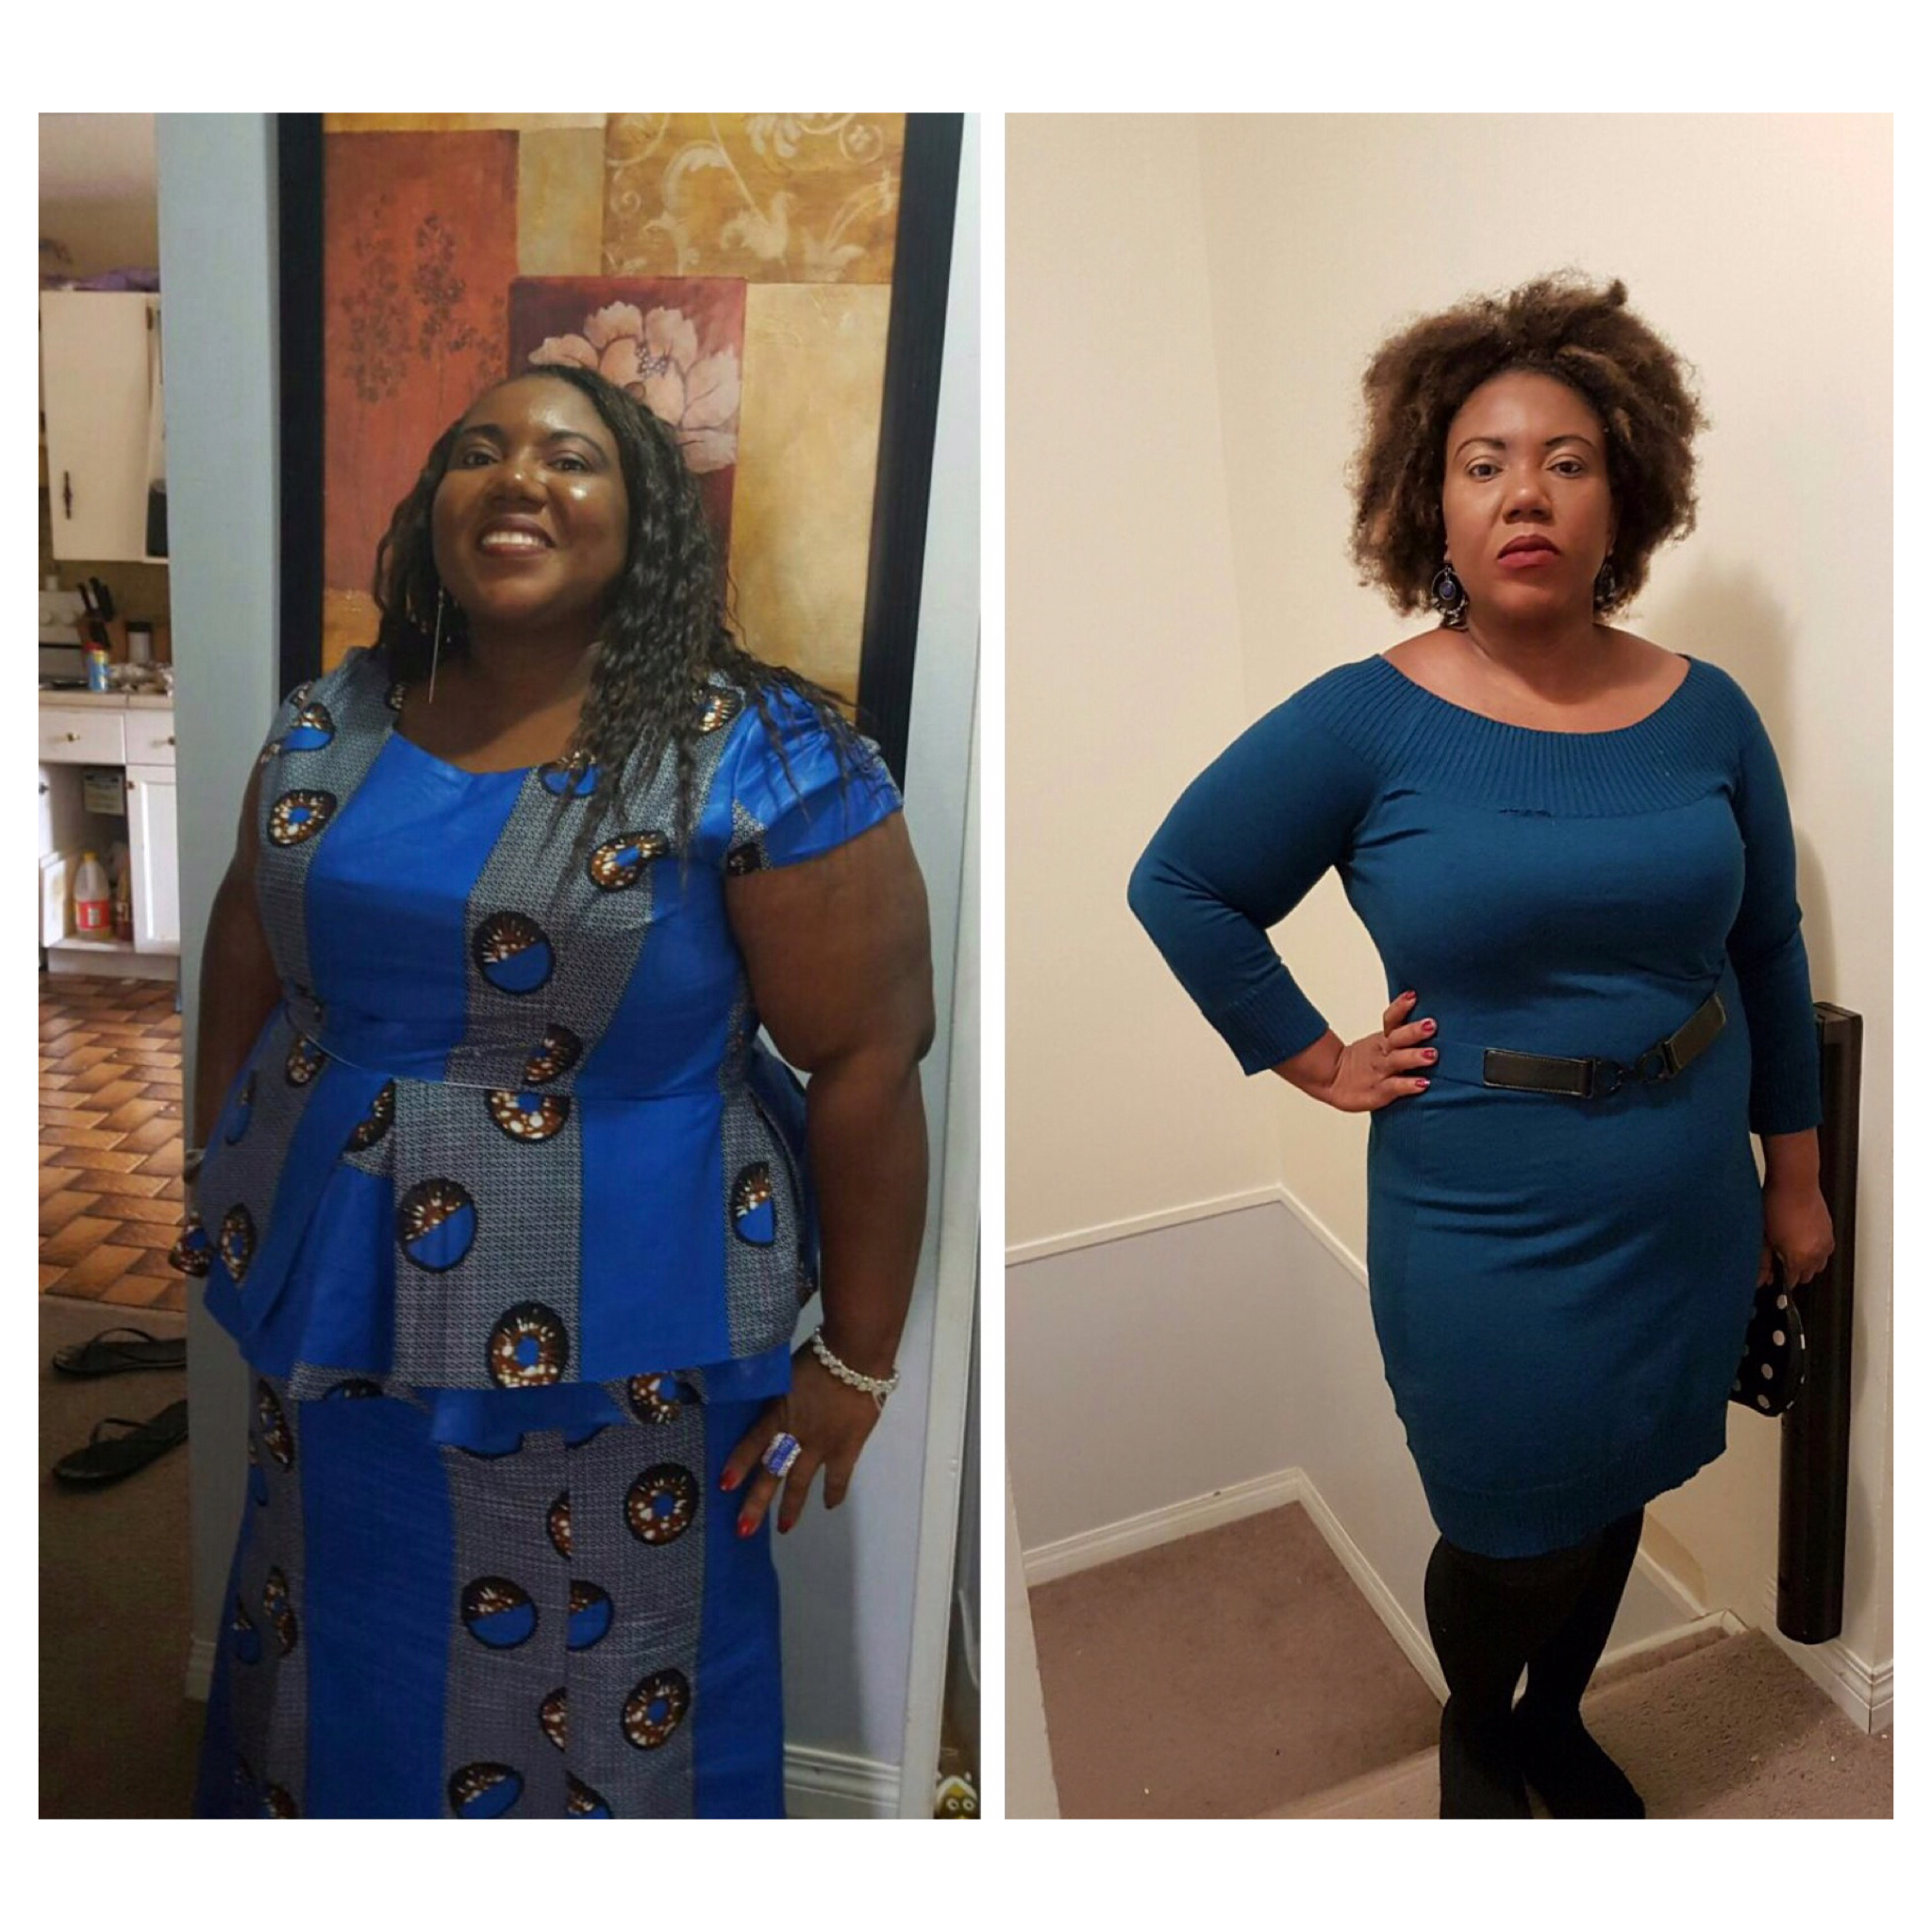
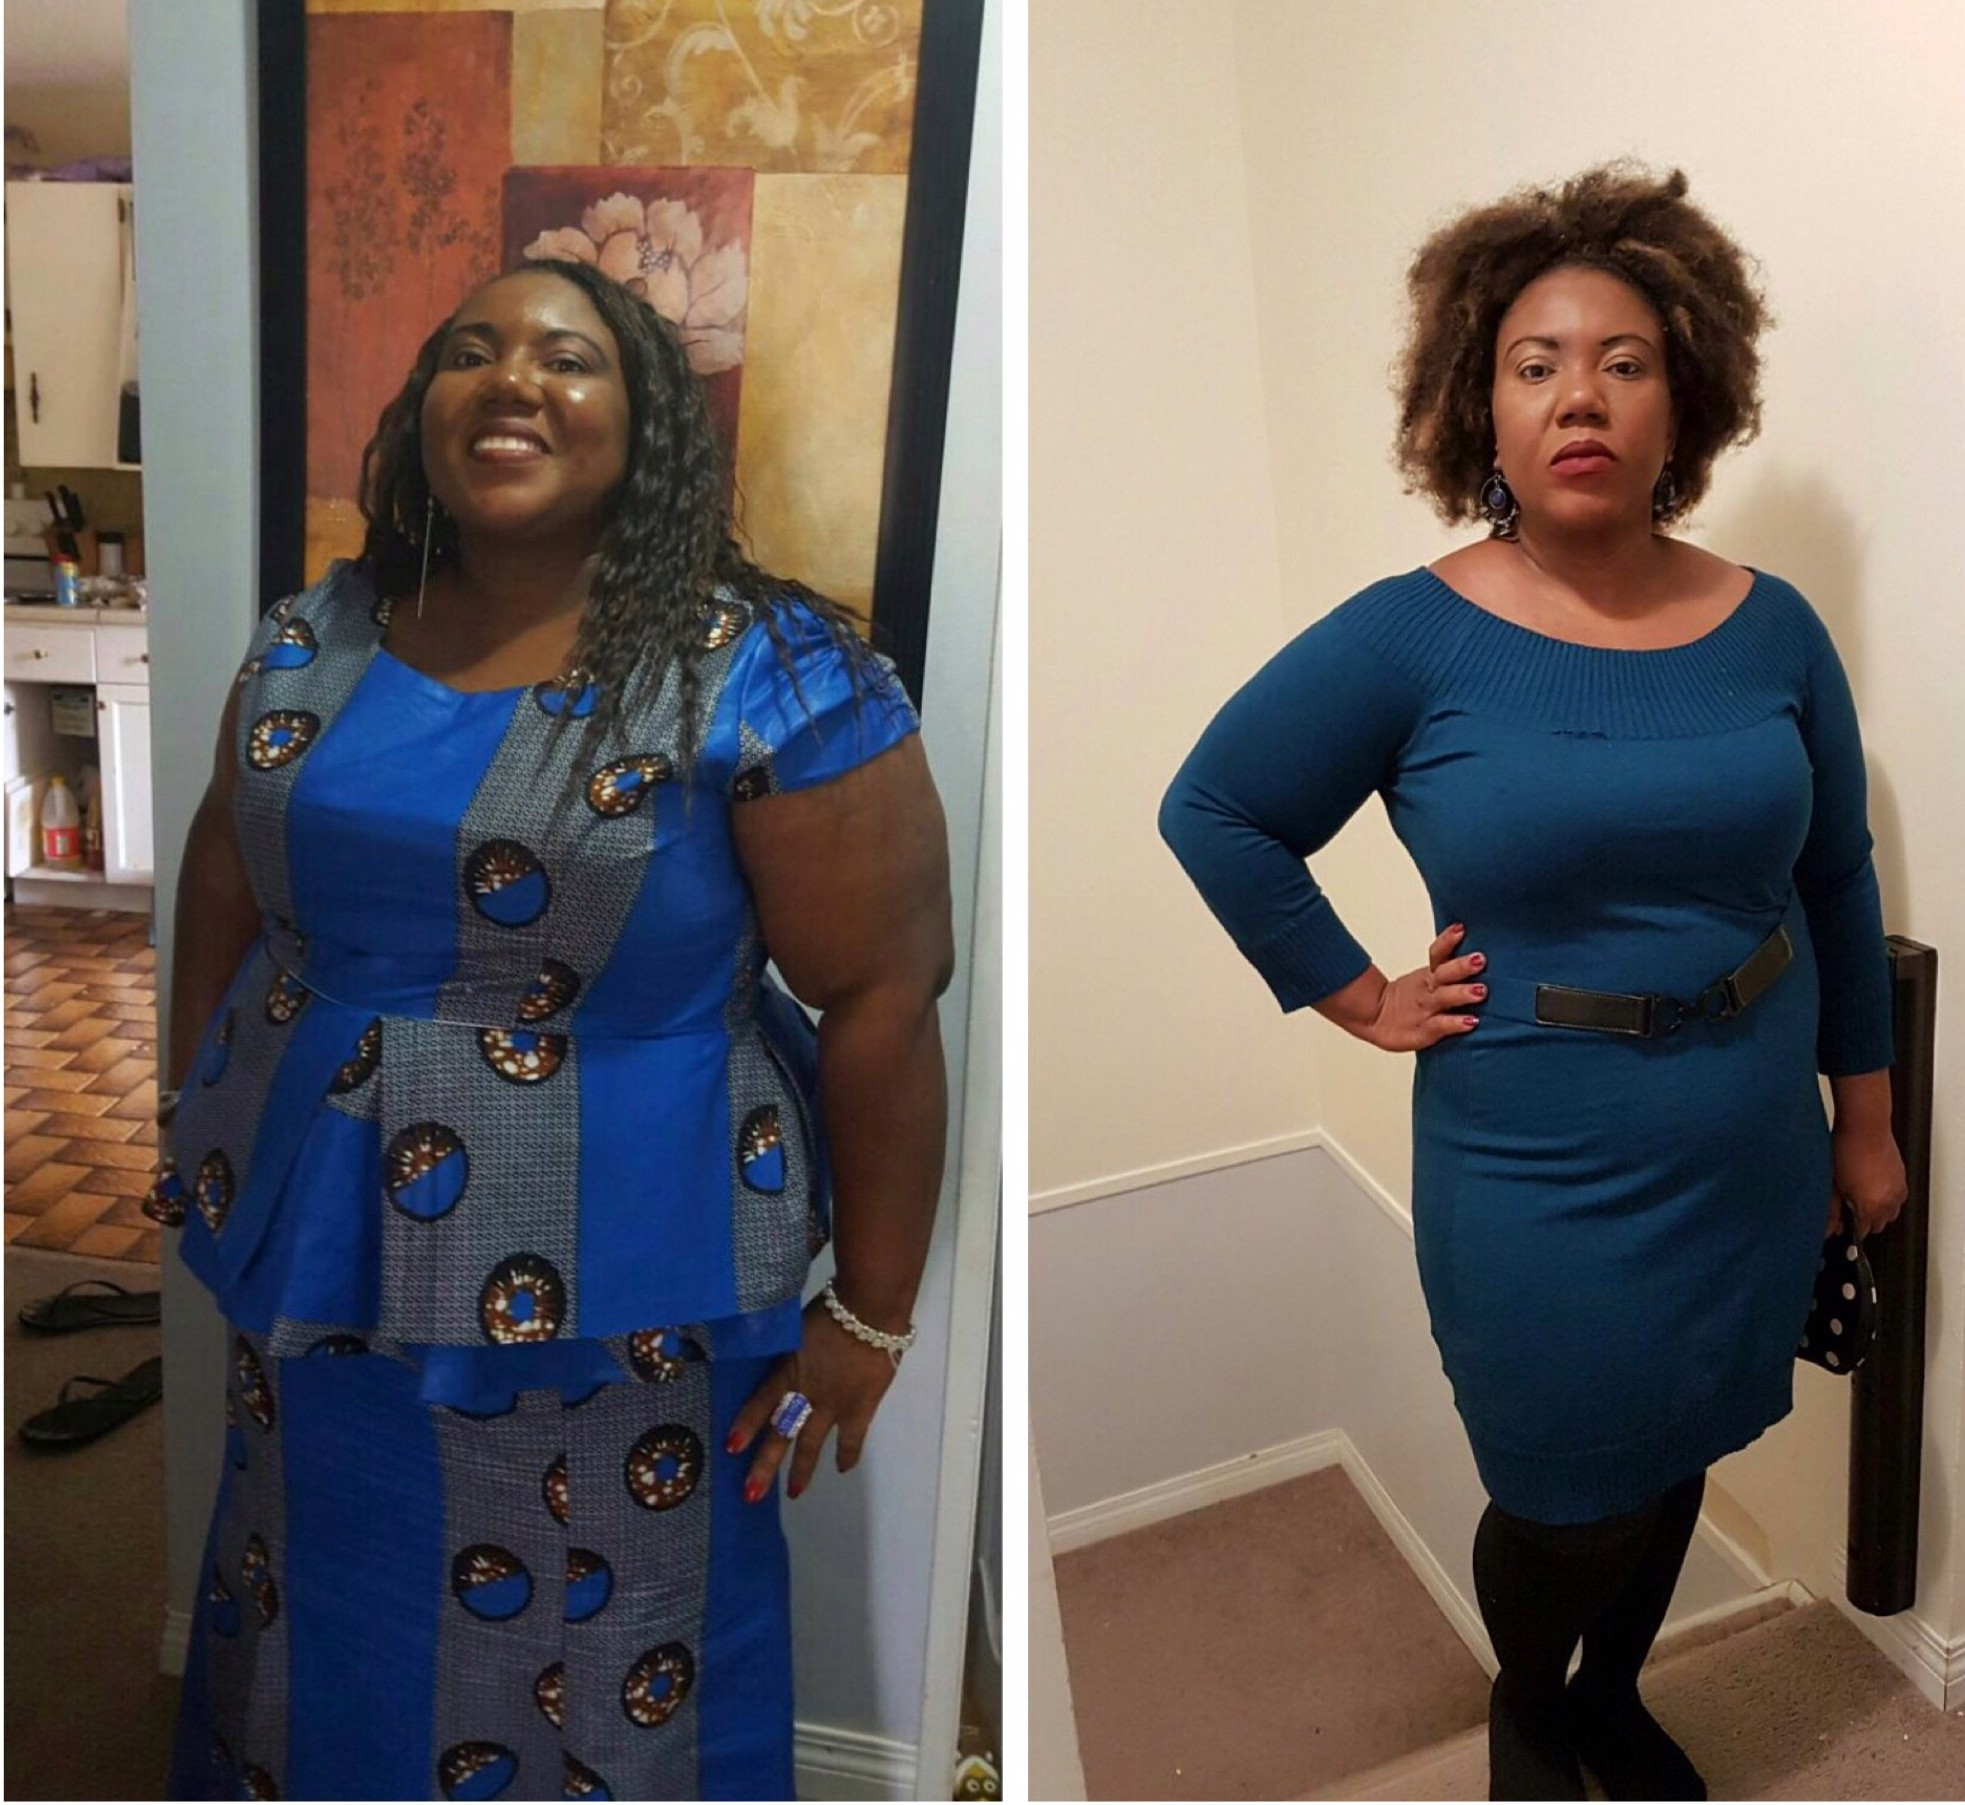
feat: Pics Home page, membership, PT

diff --git a/src/sections/WhyChooseUsSection.tsx b/src/sections/WhyChooseUsSection.tsx
@@ -17,7 +17,7 @@ export const WhyChooseUsSection = (): JSX.Element => {
       title: "Personal Training",
       description:
         "Unlock customized 1-on-1 training built around your goals, schedule, and fitness level. Real results, no guesswork.",
-      image: "/img/image-1.png",
+      image: "/img/personal-training-photo.jpg",
       imageAlt: "Personal Training",
       imagePosition: "left",
       link: "/personal-training",
@@ -27,7 +27,7 @@ export const WhyChooseUsSection = (): JSX.Element => {
       title: "Memberships",
       description:
         "Choose the plan that fits your lifestyle and stay consistent with full access, support, and a community that keeps you motivated.",
-      image: "/img/rectangle-6538.png",
+      image: "/img/memberships-photo.jpg",
       imageAlt: "Memberships",
       imagePosition: "right",
       link: "/membership",
@@ -37,10 +37,10 @@ export const WhyChooseUsSection = (): JSX.Element => {
       title: "Group Sessions",
       description:
         "Train with others, stay energized, and push harder with fun, instructor-led group workouts for every fitness level.",
-      image: "/img/rectangle-6538-1.png",
+      image: "/img/group-sessions-photo.jpg",
       imageAlt: "Group Sessions",
       imagePosition: "left",
-      link: "/group-session",
+      link: "/group-sessions",
     },
   ];
 

diff --git a/src/sections/FeatureProductsSection.tsx b/src/sections/FeatureProductsSection.tsx
@@ -12,7 +12,7 @@ export const FeatureProductsSection = (): JSX.Element => {
 
   return (
     <section className="flex flex-col w-full lg:w-[1200px] mx-auto lg:mx-0 items-center gap-10 md:gap-[60px] px-4 md:px-8 py-12 md:py-16 lg:py-0 relative lg:absolute lg:top-[7668px] lg:left-[360px]">
-      <header className="flex flex-col w-full max-w-[1010px] items-start justify-center gap-4 md:gap-5">
+      <header className="flex flex-col w-full max-w-[1010px] items-center justify-center gap-4 md:gap-5">
         <h2 className="flex items-center justify-center self-stretch [font-family:'Prompt',Helvetica] font-medium text-white text-3xl md:text-4xl lg:text-5xl text-center tracking-[0] leading-tight md:leading-[53.3px]">
           Subscribe to our newsletter
         </h2>

diff --git a/src/sections/NewsletterSection.tsx b/src/sections/NewsletterSection.tsx
@@ -16,7 +16,7 @@ export const NewsletterSection = (): JSX.Element => {
       label: "Clients Transformed",
     },
     {
-      value: "95%",
+      value: "99%",
       label: "Success Rate",
     },
     {